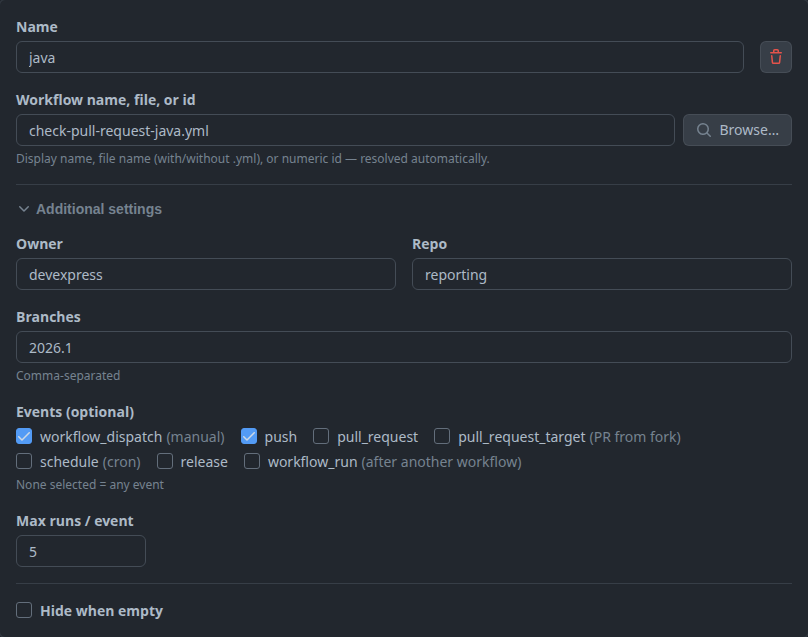
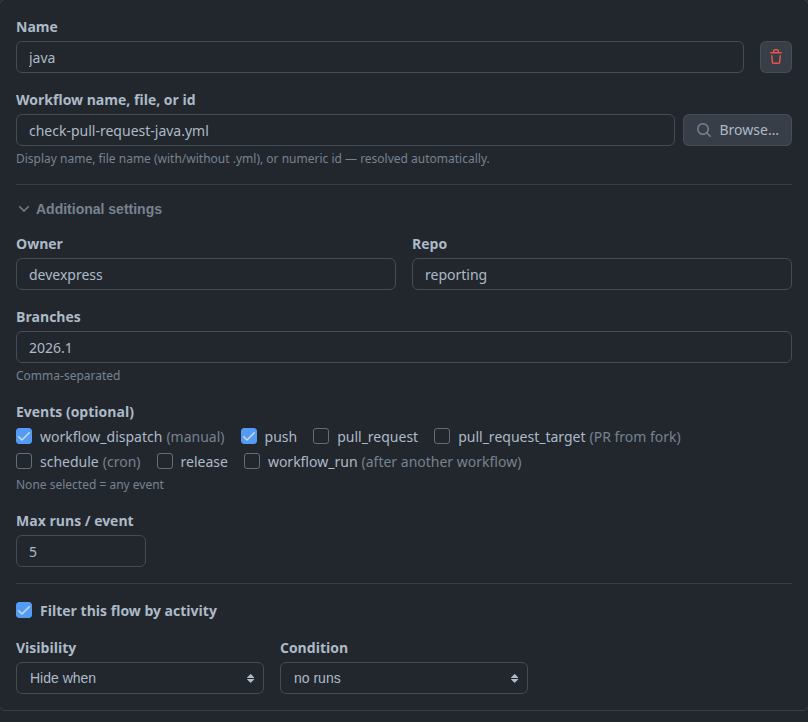
refactor filtering

diff --git a/src/lib/flowEmptiness.ts b/src/lib/flowEmptiness.ts
@@ -1,8 +1,11 @@
 /**
- * Decides whether a flow is "empty" per its per-flow empty filter, so the Flows
- * view and Overview can hide no-op / misconfigured flows.
+ * Decides whether the Flows view and Overview should hide a flow, per its
+ * per-flow visibility filter. The filter tests an "empty" condition and its
+ * `mode` picks the direction:
+ *  - hide: hide the flow when it matches the condition.
+ *  - show: show the flow only when it matches (hide the non-empty ones).
  *
- * Signals:
+ * Emptiness signals:
  *  - no_runs:      the flow produced no runs for its branches/events.
  *  - only_skipped: it has runs, but every one is skipped/neutral (nothing ran).
  *  - no_artifacts: the latest completed run uploaded no artifacts, or a total
@@ -38,8 +41,12 @@ function jobInState(job: Job, state: EmptyFlowFilter['jobState']): boolean {
   }
 }
 
-export function isFlowEmpty(input: FlowEmptinessInput, filter: EmptyFlowFilter): boolean {
-  if (!filter.enabled) return false;
+/**
+ * Whether the flow matches the "empty" condition.
+ * Returns `null` when the answer isn't known yet (data still loading, or the
+ * condition isn't configured) so callers can keep the flow visible meanwhile.
+ */
+function emptinessSignal(input: FlowEmptinessInput, filter: EmptyFlowFilter): boolean | null {
   switch (filter.by) {
     case 'no_runs':
       return input.runs.length === 0;
@@ -49,17 +56,34 @@ export function isFlowEmpty(input: FlowEmptinessInput, filter: EmptyFlowFilter):
         input.runs.every((r) => statusToOverall(r.status, r.conclusion) === 'neutral')
       );
     case 'no_artifacts':
-      if (input.latestArtifactBytes === null) return false; // unknown -> keep visible
+      if (input.latestArtifactBytes === null) return null; // unknown -> keep visible
       return input.latestArtifactBytes <= filter.minArtifactKB * 1024;
     case 'job': {
       const name = filter.jobName.trim().toLowerCase();
-      if (!name) return false; // no job specified -> nothing to match
-      if (input.latestJobs === null) return false; // unknown -> keep visible while loading
+      if (!name) return null; // no job specified -> not configured yet
+      if (input.latestJobs === null) return null; // unknown -> keep visible while loading
       const matching = input.latestJobs.filter((j) => j.name.toLowerCase().includes(name));
       if (matching.length === 0) return false;
       return matching.some((j) => jobInState(j, filter.jobState));
     }
   }
+}
+
+/** True when the flow matches its "empty" condition (unknown counts as not empty). */
+export function isFlowEmpty(input: FlowEmptinessInput, filter: EmptyFlowFilter): boolean {
+  if (!filter.enabled) return false;
+  return emptinessSignal(input, filter) === true;
+}
+
+/**
+ * Whether the Flows view / Overview should hide the flow, honoring the filter's
+ * `mode`. A flow whose emptiness is still unknown is kept visible in both modes.
+ */
+export function isFlowHidden(input: FlowEmptinessInput, filter: EmptyFlowFilter): boolean {
+  if (!filter.enabled) return false;
+  const empty = emptinessSignal(input, filter);
+  if (empty === null) return false; // loading / not configured -> keep visible
+  return filter.mode === 'hide' ? empty : !empty;
 }
 
 /** The filter needs the latest run's artifact size fetched. */

diff --git a/src/mocks/fixtures.ts b/src/mocks/fixtures.ts
@@ -44,7 +44,7 @@ export const MOCK_CONFIG: MonitorConfig = {
       branches: [BRANCH],
       events: ['workflow_dispatch', 'push'],
       maxRuns: 5,
-      emptyFilter: { enabled: false, by: 'no_runs', minArtifactKB: 0, jobName: '', jobState: 'skipped' },
+      emptyFilter: { enabled: false, mode: 'hide', by: 'no_runs', minArtifactKB: 0, jobName: '', jobState: 'skipped' },
     },
     {
       id: 'flow-wpf',
@@ -55,7 +55,7 @@ export const MOCK_CONFIG: MonitorConfig = {
       branches: [BRANCH],
       events: ['push'],
       maxRuns: 5,
-      emptyFilter: { enabled: false, by: 'no_runs', minArtifactKB: 0, jobName: '', jobState: 'skipped' },
+      emptyFilter: { enabled: false, mode: 'hide', by: 'no_runs', minArtifactKB: 0, jobName: '', jobState: 'skipped' },
     },
     {
       id: 'flow-visualtests',
@@ -66,7 +66,7 @@ export const MOCK_CONFIG: MonitorConfig = {
       branches: [BRANCH],
       events: ['pull_request'],
       maxRuns: 5,
-      emptyFilter: { enabled: false, by: 'no_runs', minArtifactKB: 0, jobName: '', jobState: 'skipped' },
+      emptyFilter: { enabled: false, mode: 'hide', by: 'no_runs', minArtifactKB: 0, jobName: '', jobState: 'skipped' },
     },
     {
       id: 'flow-java-cron',
@@ -77,7 +77,7 @@ export const MOCK_CONFIG: MonitorConfig = {
       branches: [BRANCH],
       events: ['workflow_dispatch'],
       maxRuns: 5,
-      emptyFilter: { enabled: false, by: 'no_runs', minArtifactKB: 0, jobName: '', jobState: 'skipped' },
+      emptyFilter: { enabled: false, mode: 'hide', by: 'no_runs', minArtifactKB: 0, jobName: '', jobState: 'skipped' },
     },
     {
       id: 'flow-publish',
@@ -88,7 +88,7 @@ export const MOCK_CONFIG: MonitorConfig = {
       branches: [BRANCH],
       events: ['workflow_dispatch'],
       maxRuns: 5,
-      emptyFilter: { enabled: false, by: 'no_runs', minArtifactKB: 0, jobName: '', jobState: 'skipped' },
+      emptyFilter: { enabled: false, mode: 'hide', by: 'no_runs', minArtifactKB: 0, jobName: '', jobState: 'skipped' },
     },
     {
       // No runs in the mock; its own filter hides it — demonstrates per-flow empty filtering.
@@ -100,7 +100,7 @@ export const MOCK_CONFIG: MonitorConfig = {
       branches: [BRANCH],
       events: [],
       maxRuns: 5,
-      emptyFilter: { enabled: true, by: 'no_runs', minArtifactKB: 0, jobName: '', jobState: 'skipped' },
+      emptyFilter: { enabled: true, mode: 'hide', by: 'no_runs', minArtifactKB: 0, jobName: '', jobState: 'skipped' },
     },
   ],
   groups: [

diff --git a/src/components/SettingsPage.tsx b/src/components/SettingsPage.tsx
@@ -434,19 +434,32 @@ function FlowEditor({
               </FormControl>
             </Box>
 
-            {/* Per-flow empty filter */}
+            {/* Per-flow visibility filter */}
             <Box sx={{ mt: 3, pt: 3, borderTop: '1px solid', borderColor: 'border.muted' }}>
               <FormControl sx={{ mb: flow.emptyFilter.enabled ? 3 : 0 }}>
           <Checkbox
             checked={flow.emptyFilter.enabled}
             onChange={(e) => set('emptyFilter', { ...flow.emptyFilter, enabled: e.target.checked })}
           />
-          <FormControl.Label>Hide when empty</FormControl.Label>
+          <FormControl.Label>Filter this flow by activity</FormControl.Label>
         </FormControl>
         {flow.emptyFilter.enabled && (
           <Box sx={{ display: 'grid', gridTemplateColumns: ['1fr', 'repeat(3, 1fr)'], gap: 3 }}>
             <FormControl>
-              <FormControl.Label>Empty when</FormControl.Label>
+              <FormControl.Label>Visibility</FormControl.Label>
+              <Select
+                value={flow.emptyFilter.mode}
+                onChange={(e) =>
+                  set('emptyFilter', { ...flow.emptyFilter, mode: e.target.value as EmptyFlowFilter['mode'] })
+                }
+                block
+              >
+                <Select.Option value="hide">Hide when</Select.Option>
+                <Select.Option value="show">Show when</Select.Option>
+              </Select>
+            </FormControl>
+            <FormControl>
+              <FormControl.Label>Condition</FormControl.Label>
               <Select
                 value={flow.emptyFilter.by}
                 onChange={(e) =>
@@ -669,7 +682,7 @@ export function SettingsPage() {
       branches: ['main'],
       events: [],
       maxRuns: 5,
-      emptyFilter: { enabled: false, by: 'no_runs', minArtifactKB: 0, jobName: '', jobState: 'skipped' },
+      emptyFilter: { enabled: false, mode: 'hide', by: 'no_runs', minArtifactKB: 0, jobName: '', jobState: 'skipped' },
     };
     update({ flows: [...draft.flows, flow] });
   };

diff --git a/src/test/flowEmptiness.test.ts b/src/test/flowEmptiness.test.ts
@@ -3,6 +3,7 @@ import {
   emptyFilterNeedsArtifacts,
   emptyFilterNeedsLatestJobs,
   isFlowEmpty,
+  isFlowHidden,
 } from '../lib/flowEmptiness';
 import type { EmptyFlowFilter } from '../storage/configStore';
 import type { Job, WorkflowRun } from '../api/types';
@@ -43,6 +44,7 @@ function job(name: string, over: Partial<Job> = {}): Job {
 
 const filter = (over: Partial<EmptyFlowFilter>): EmptyFlowFilter => ({
   enabled: true,
+  mode: 'hide',
   by: 'no_runs',
   minArtifactKB: 0,
   jobName: '',
@@ -104,5 +106,29 @@ describe('isFlowEmpty', () => {
     expect(emptyFilterNeedsLatestJobs(filter({ by: 'job' }))).toBe(true);
     expect(emptyFilterNeedsLatestJobs(filter({ enabled: false, by: 'job' }))).toBe(false);
     expect(emptyFilterNeedsLatestJobs(filter({ by: 'no_runs' }))).toBe(false);
+  });
+});
+
+describe('isFlowHidden', () => {
+  it('is never hidden when the filter is disabled', () => {
+    expect(isFlowHidden(input({ runs: [] }), filter({ enabled: false }))).toBe(false);
+  });
+
+  it('hide mode: hides matching (empty) flows, keeps the rest', () => {
+    const f = filter({ mode: 'hide', by: 'no_runs' });
+    expect(isFlowHidden(input({ runs: [] }), f)).toBe(true);
+    expect(isFlowHidden(input({ runs: [run({ id: 1 })] }), f)).toBe(false);
+  });
+
+  it('show mode: keeps only matching (empty) flows, hides the rest', () => {
+    const f = filter({ mode: 'show', by: 'no_runs' });
+    expect(isFlowHidden(input({ runs: [] }), f)).toBe(false);
+    expect(isFlowHidden(input({ runs: [run({ id: 1 })] }), f)).toBe(true);
+  });
+
+  it('keeps the flow visible in both modes while emptiness is unknown', () => {
+    const loading = input({ runs: [run({ id: 1 })], latestArtifactBytes: null });
+    expect(isFlowHidden(loading, filter({ mode: 'hide', by: 'no_artifacts', minArtifactKB: 10 }))).toBe(false);
+    expect(isFlowHidden(loading, filter({ mode: 'show', by: 'no_artifacts', minArtifactKB: 10 }))).toBe(false);
   });
 });

diff --git a/src/components/FlowsView.tsx b/src/components/FlowsView.tsx
@@ -23,7 +23,7 @@ import {
 } from '@primer/octicons-react';
 import { useFlowStates } from '../context/FlowsRuntimeContext';
 import { useFlowGroups } from '../hooks/useFlowGroups';
-import { isFlowEmpty, latestRunJobs } from '../lib/flowEmptiness';
+import { isFlowHidden, latestRunJobs } from '../lib/flowEmptiness';
 import {
   DEFAULT_FLOWS_FILTER,
   isJobFilterActive,
@@ -186,7 +186,7 @@ export function FlowsView({ focusFlowId }: { focusFlowId?: string | null }) {
 
   const isVisible = (flow: Flow) => {
     const st = states.get(flow.id);
-    return !isFlowEmpty(
+    return !isFlowHidden(
       {
         runs: st?.runs ?? [],
         latestArtifactBytes: st?.latestArtifactBytes ?? null,
@@ -261,8 +261,8 @@ export function FlowsView({ focusFlowId }: { focusFlowId?: string | null }) {
 
       {hiddenCount > 0 && (
         <Text sx={{ display: 'block', fontSize: 0, color: 'fg.muted', mb: 3 }}>
-          {hiddenCount} empty {hiddenCount === 1 ? 'flow' : 'flows'} hidden by per-flow filter
-          (configure in Settings → each flow's “Hide when empty”).
+          {hiddenCount} {hiddenCount === 1 ? 'flow' : 'flows'} hidden by per-flow filter
+          (configure in Settings → each flow's visibility filter).
         </Text>
       )}
 

diff --git a/src/storage/configStore.ts b/src/storage/configStore.ts
@@ -31,6 +31,12 @@ const ownerRepoSchema = z.preprocess(
 export const emptyFlowFilterSchema = z.object({
   enabled: z.boolean().default(false),
   /**
+   * Direction of the filter:
+   *  - hide: hide the flow when it matches the "empty" condition (the default).
+   *  - show: show the flow ONLY when it matches — i.e. hide the non-empty ones.
+   */
+  mode: z.enum(['hide', 'show']).default('hide'),
+  /**
    * What counts as "empty":
    *  - no_runs / only_skipped: derived from the runs themselves
    *  - no_artifacts: latest run's total artifact size at/below `minArtifactKB`
@@ -73,7 +79,7 @@ export const flowSchema = z.preprocess(
     /** Event filter (e.g. workflow_dispatch, push). Empty = any event. */
     events: z.array(z.string().trim().min(1)).default([]),
     maxRuns: z.number().int().min(1).max(50).default(5),
-    /** Per-flow "hide when empty" filter. */
+    /** Per-flow visibility filter: hide/show the flow based on an "empty" condition. */
     emptyFilter: emptyFlowFilterSchema.prefault({}),
   }),
 );

diff --git a/src/components/Overview.tsx b/src/components/Overview.tsx
@@ -22,7 +22,7 @@ import type { OverallStatus, WorkflowRun } from '../api/types';
 import type { Flow, FlowGroup } from '../storage/configStore';
 import type { PrEntry } from '../hooks/useGitHubDashboard';
 import { statusToOverall } from '../lib/status';
-import { isFlowEmpty, latestRunJobs } from '../lib/flowEmptiness';
+import { isFlowHidden, latestRunJobs } from '../lib/flowEmptiness';
 import { StatusBadge } from './StatusBadge';
 import { formatRelative } from '../lib/format';
 import { OverallSummaryDialog, RunOverallSummaryDialog } from './OverallSummaryDialog';
@@ -182,7 +182,7 @@ export function Overview({
 
   const isVisible = (flow: Flow) => {
     const state = flowStates.get(flow.id);
-    return !isFlowEmpty(
+    return !isFlowHidden(
       {
         runs: state?.runs ?? [],
         latestArtifactBytes: state?.latestArtifactBytes ?? null,

diff --git a/src/test/flowGroups.test.ts b/src/test/flowGroups.test.ts
@@ -23,7 +23,7 @@ function flow(id: string): Flow {
     branches: ['main'],
     events: [],
     maxRuns: 5,
-    emptyFilter: { enabled: false, by: 'no_runs', minArtifactKB: 0, jobName: '', jobState: 'skipped' },
+    emptyFilter: { enabled: false, mode: 'hide', by: 'no_runs', minArtifactKB: 0, jobName: '', jobState: 'skipped' },
   };
 }
 

diff --git a/src/test/config.test.ts b/src/test/config.test.ts
@@ -46,6 +46,7 @@ describe('configStore', () => {
     });
     expect(cfg.flows[0].emptyFilter).toEqual({
       enabled: false,
+      mode: 'hide',
       by: 'no_runs',
       minArtifactKB: 0,
       jobName: '',

diff --git a/README.md b/README.md
@@ -109,9 +109,10 @@ fill the flow's name, workflow file, branch and event in one go.
 
 ![Browse recent workflows](docs/screenshots/settings-browse.png)
 
-Under Additional settings you can also **Hide when empty** — automatically hide a flow when it has no
-runs, only skipped runs, no artifacts, or when a named job ended up in a certain state (e.g. a `test`
-job was skipped).
+Under Additional settings you can also add a per-flow **visibility filter** — pick **Hide when** or
+**Show when**, then a condition: the flow has no runs, only skipped runs, no artifacts, or a named job
+ended up in a certain state (e.g. a `test` job was skipped). *Hide when* drops matching flows from the
+board; *Show when* keeps only the matching ones.
 
 Click **Save changes** and you’re ready.
 
